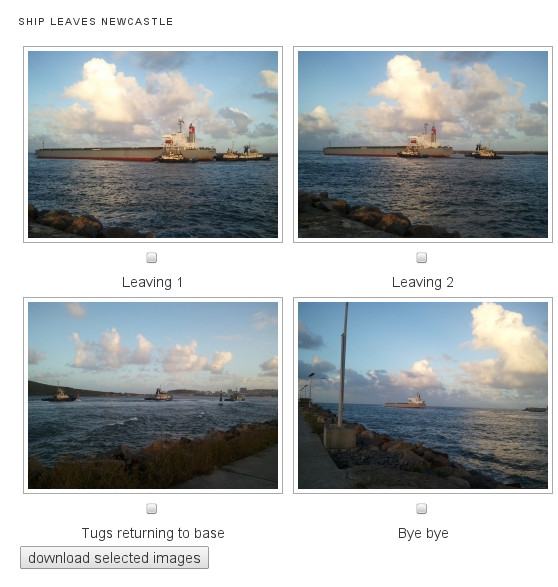
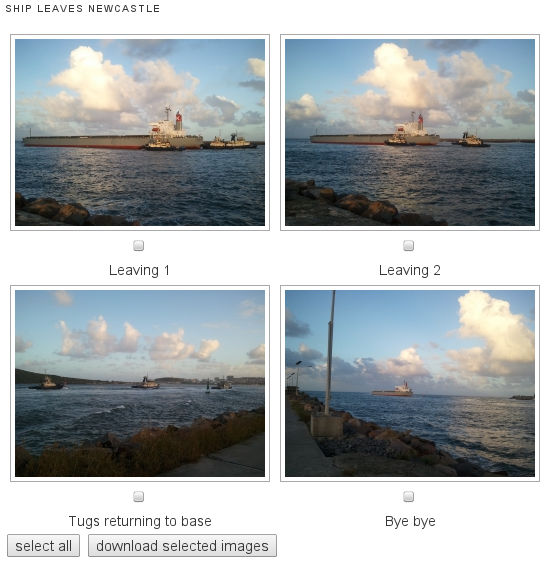
1.1.0: remove ZipArchive requirement, add "select all" button to template

Changed region(s): [[0.0, 0.0, 1.0, 0.9877]]

diff --git a/nextgen-download-gallery.php b/nextgen-download-gallery.php
@@ -2,8 +2,8 @@
 /*
 Plugin Name: NextGEN Download Gallery
 Plugin URI: http://snippets.webaware.com.au/wordpress-plugins/nextgen-download-gallery/
-Description: Add a template to NextGEN Gallery to provide multiple-file downloads for trade/media galleries
-Version: 1.0.2
+Description: Add a template to NextGEN Gallery that provides multiple-file downloads for trade/media galleries
+Version: 1.1.0
 Author: WebAware
 Author URI: http://www.webaware.com.au/
 */
@@ -46,7 +46,7 @@ class NextGENDownloadGallery {
 		add_action('wp_ajax_ngg-download-gallery-zip', array(__CLASS__, 'ajaxDownloadZip'));
 		add_action('wp_ajax_nopriv_ngg-download-gallery-zip', array(__CLASS__, 'ajaxDownloadZip'));
 
-		// add action hook for adding plugin meta links
+		// hooks for admin screens
 		add_filter('plugin_row_meta', array(__CLASS__, 'addPluginDetailsLinks'), 10, 2);
 	}
 
@@ -88,58 +88,44 @@ class NextGENDownloadGallery {
 		$gallery = trim(stripslashes($_GET['gallery']));
 
 		if (is_array($images) && count($images) > 0) {
-			$zip = new ZipArchive();
-			$filename = tempnam(get_temp_dir(), 'zip');
-
-			$status = $zip->open($filename, ZIPARCHIVE::CREATE);
-			if ($status !== TRUE) {
-				$zipErrors = array(
-					ZIPARCHIVE::ER_EXISTS => 'File already exists',
-					ZIPARCHIVE::ER_INCONS => 'Zip archive inconsistent',
-					ZIPARCHIVE::ER_INVAL => 'Invalid argument',
-					ZIPARCHIVE::ER_MEMORY => 'Out of memory',
-					ZIPARCHIVE::ER_NOENT => 'No such file',
-					ZIPARCHIVE::ER_NOZIP => 'Not a zip archive',
-					ZIPARCHIVE::ER_OPEN => 'Can\'t open file',
-					ZIPARCHIVE::ER_READ => 'Read error',
-					ZIPARCHIVE::ER_SEEK => 'Seek error',
-				);
-
-				if (isset($zipErrors[$status]))
-					$status = $zipErrors[$status];
-				else
-					$status = "Unknown error: $status";
-
-				die(__("Can't create ZIP archive", 'nextgen-download-gallery') . ": $filename; $status");
+			if (!class_exists('PclZip')) {
+				require ABSPATH . 'wp-admin/includes/class-pclzip.php';
 			}
+
+			$filename = tempnam(get_temp_dir(), 'zip');
+			$zip = new PclZip($filename);
+			$files = array();
 
 			foreach ($images as $image) {
 				$image = $nggdb->find_image($image);
 				if ($image) {
-					if ($zip->addFile($image->imagePath, $image->filename) !== TRUE) {
-						// error, so close the ZIP file and delete it, then fail with error description
-						$zip->close();
-						unlink($filename);
-						die(__("Can't add to ZIP archive", 'nextgen-download-gallery') . ": $filename; file was {$image->filename}");
-					}
+					$files[] = $image->imagePath;
 				}
 			}
-			$zip->close();
 
-			header('Content-Description: File Transfer');
-			header('Content-Type: application/zip');
-			header('Content-Disposition: attachment; filename=' . sanitize_file_name($gallery) . '.zip');
-			header('Content-Transfer-Encoding: binary');
-			header('Expires: 0');
-			header('Cache-Control: must-revalidate');
-			header('Pragma: public');
-			header('Content-Length: ' . filesize($filename));
-			readfile($filename);
+			if (count($files) > 0) {
+				// create the Zip archive, without paths or compression (images are already compressed)
+				$properties = $zip->create($files, PCLZIP_OPT_REMOVE_ALL_PATH, PCLZIP_OPT_NO_COMPRESSION);
+				if (!is_array($properties)) {
+					die($zip->errorInfo(true));
+				}
 
-			// delete the temporary file
-			unlink($filename);
+				// send the Zip archive to the browser
+				header('Content-Description: File Transfer');
+				header('Content-Type: application/zip');
+				header('Content-Disposition: attachment; filename=' . sanitize_file_name($gallery) . '.zip');
+				header('Content-Transfer-Encoding: binary');
+				header('Expires: 0');
+				header('Cache-Control: must-revalidate');
+				header('Pragma: public');
+				header('Content-Length: ' . filesize($filename));
+				readfile($filename);
 
-			exit;
+				// delete the temporary file
+				unlink($filename);
+
+				exit;
+			}
 		}
 	}
 
@@ -149,10 +135,20 @@ class NextGENDownloadGallery {
 	public static function addPluginDetailsLinks($links, $file) {
 		// add donations link
 		if ($file == NGG_DLGALL_PLUGIN_NAME) {
-			$links[] = '<a href="https://www.paypal.com/cgi-bin/webscr?cmd=_s-xclick&hosted_button_id=P3LPZAJCWTDUU">' . __('Donate') . '</a>';
+			$links[] = '<a href="http://wordpress.org/support/plugin/nextgen-download-gallery">' . __('Support') . '</a>';
+			$links[] = '<a href="http://wordpress.org/extend/plugins/nextgen-download-gallery/">' . __('Rating') . '</a>';
+			$links[] = '<a href="https://www.paypal.com/cgi-bin/webscr?cmd=_s-xclick&amp;hosted_button_id=P3LPZAJCWTDUU">' . __('Donate') . '</a>';
 		}
 
 		return $links;
+	}
+
+	/**
+	* display an error message (already HTML-conformant)
+	* @param string $msg HTML-encoded message to display inside a paragraph
+	*/
+	public static function showError($msg) {
+		echo "<div class='error'><p><strong>$msg</strong></p></div>\n";
 	}
 }
 

diff --git a/templates/gallery-download.php b/templates/gallery-download.php
@@ -67,6 +67,7 @@ Follow variables are useable :
 		<?php endforeach; ?>
 
 		<hr />
+		<input class="button ngg-download-selectall" type="button" style="display:none" value="<?php _e('select all', 'nextgen-download-gallery'); ?>" />
 		<input class="button downloadButton" type="submit" value="<?php _e('download selected images', 'nextgen-download-gallery'); ?>" />
 	</form>
 
@@ -75,15 +76,20 @@ Follow variables are useable :
 
 </div>
 
-<?php /* make sure that at least one image is selected before submitting form for download */ ?>
 <script>
 jQuery(function($) {
 
+<?php /* make sure that at least one image is selected before submitting form for download */ ?>
 	$("#ngg-download-frm").submit(function(event) {
 		if ($("input[name='pid[]']:checked", this).length == 0) {
 			event.preventDefault();
 			alert("<?php _e('Please select one or more images to download', 'nextgen-download-gallery'); ?>");
 		}
+	});
+
+<?php /* reveal "select all" button and active it */ ?>
+	$("input.ngg-download-selectall").show().click(function() {
+		$(this).closest("form").find("input[name='pid[]']").prop({checked: true});
 	});
 
 });
